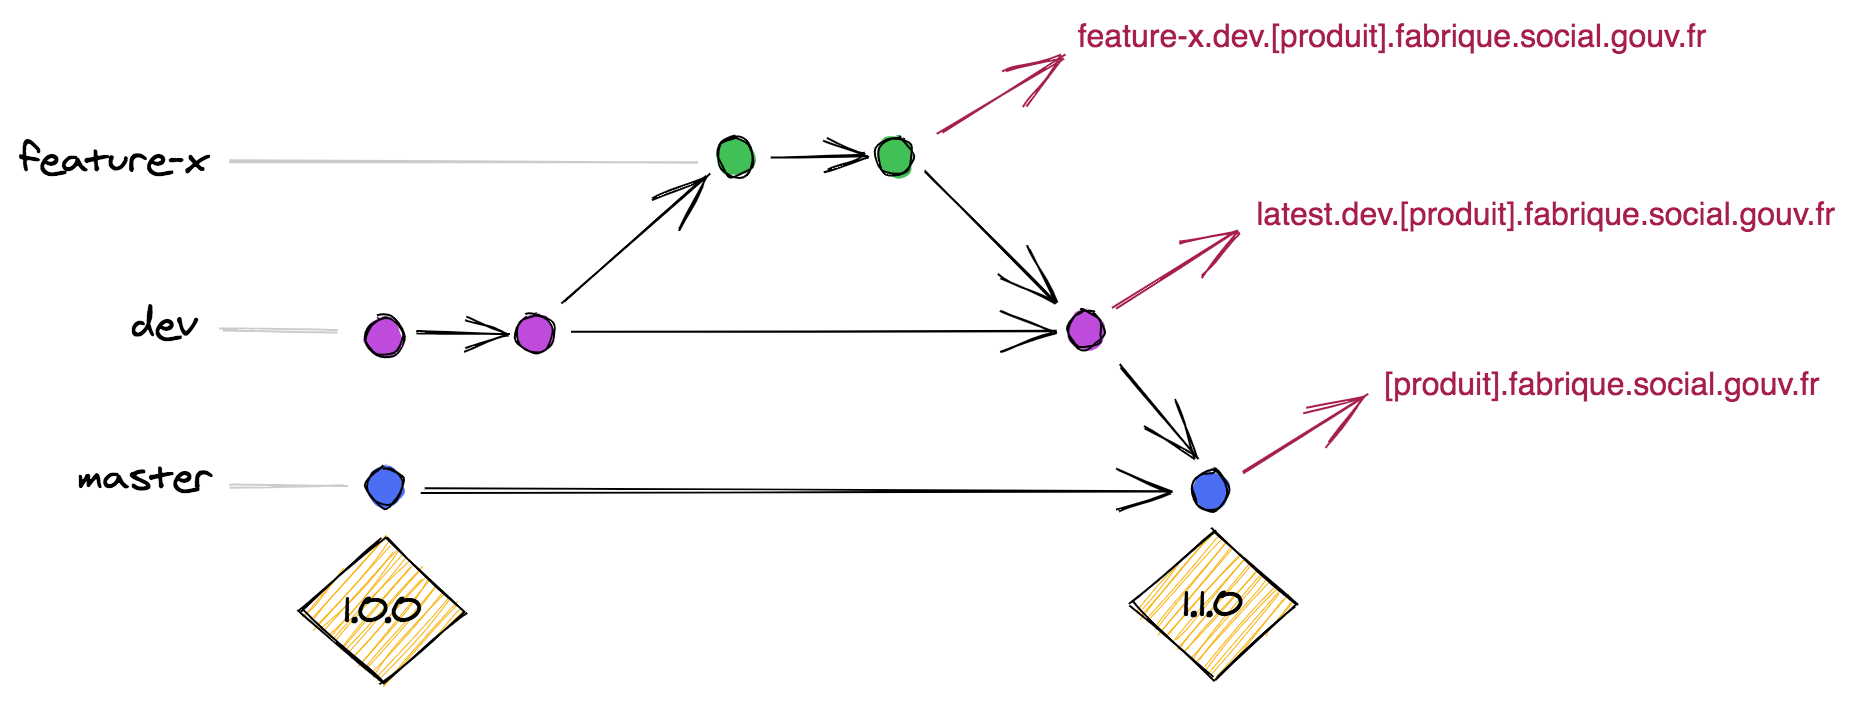
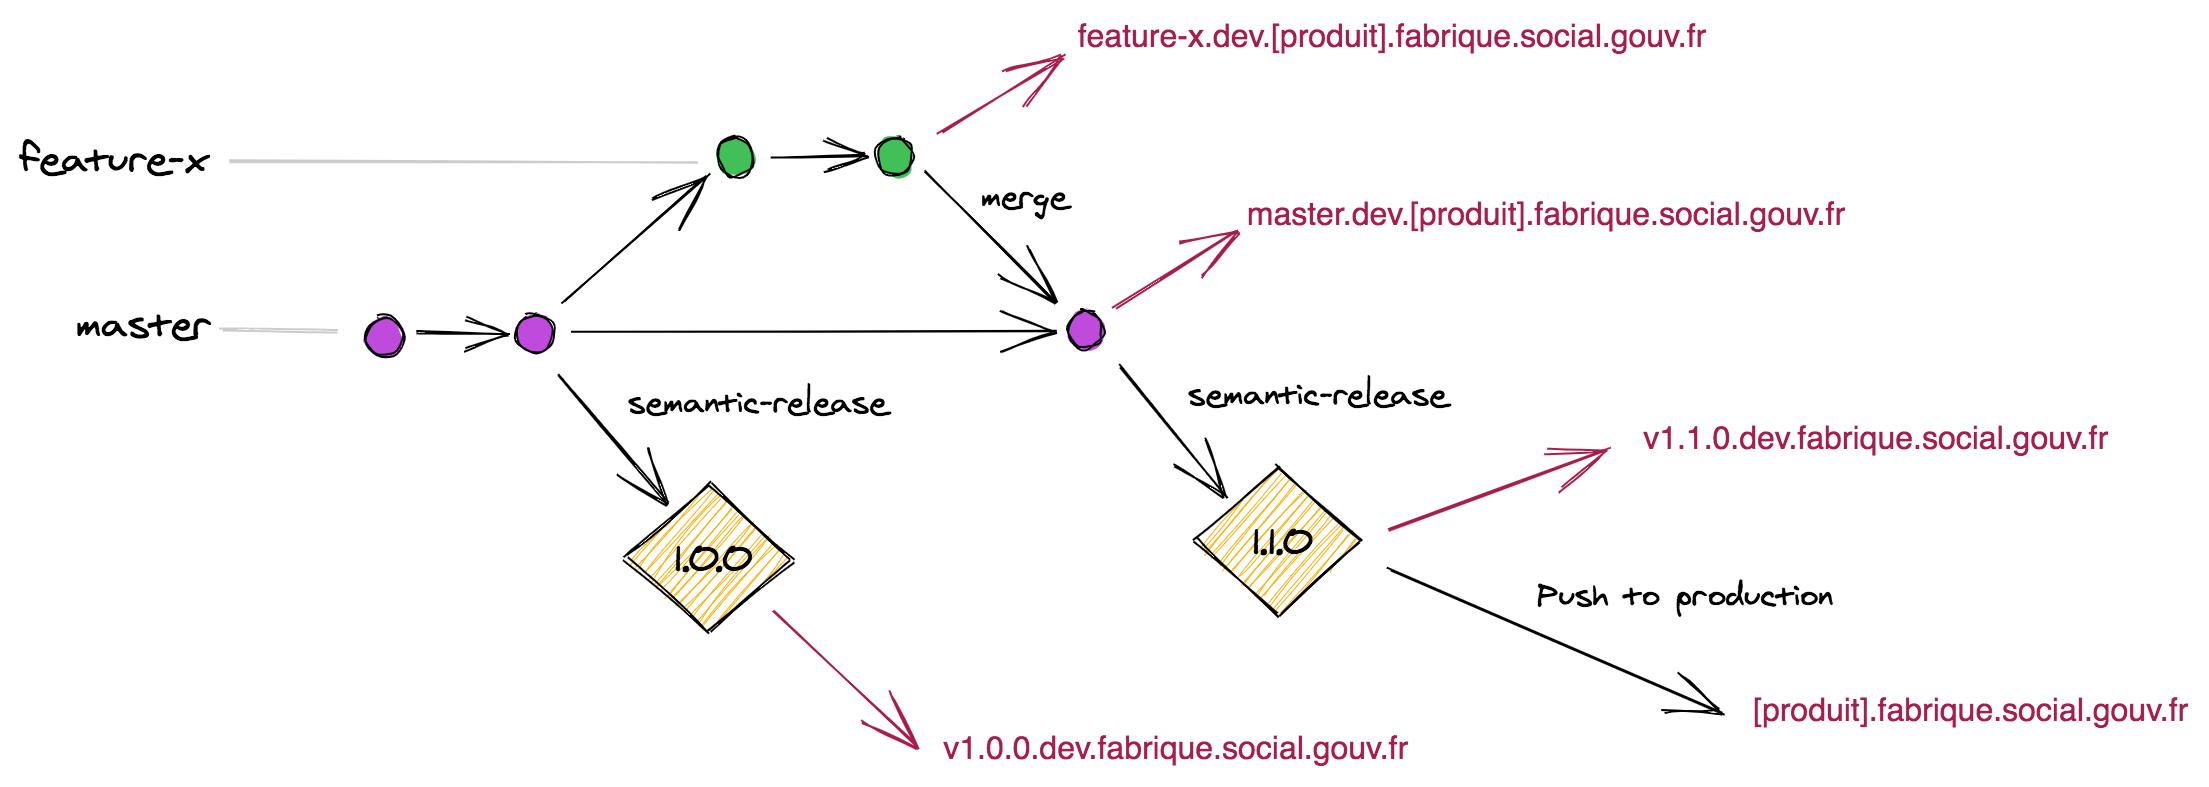
fix: update git flow

diff --git a/docs/developpement.md b/docs/developpement.md
@@ -1,12 +1,10 @@
 # Développement
 
-> Les solutions Google sont proscrites par le Ministère du fait de l'utilisation qui est faite des données collectées par Google.
-
-> L'utilisation de services SAAS tiers doit être soumise à l'équipe #Legal
+> Les solutions Google sont proscrites par le Ministère du fait de l'utilisation qui est faite des données collectées par Google. L'utilisation de services SAAS tiers doit être soumise à l'équipe #Legal de la fabrique.
 
 ## Conventions de la fabrique
 
-Nous utilisons GitHub pour tous nos projets publics et exceptionnellement notre GitLab interne pour les projets plus sensibles.
+GitHub est utilisé pour tous nos projets publics et exceptionnellement notre GitLab interne pour les projets plus sensibles.
 
 - Utiliser la [licence Apache-2.0](https://www.numerique.gouv.fr/publications/politique-logiciel-libre/pratique/#aide-au-choix-de-la-licence) pour les codes sources
 - Standardiser le code avec nos linters : https://github.com/SocialGouv/linters
@@ -20,26 +18,25 @@ Nous encourageons l'utilisation de [semantic-release](https://github.com/semanti
 
 > les `releases` sont déclenchées via un Job manuel du pipeline et executent `semantic-release`
 
-#### Phase de lancement
+[![](_media/git-flow-simple.png ":size=700x280")](https://excalidraw.com/#json=4862780838510592,zs4LSGlOakVxt7FOJyO0Nw)
 
-Lors du démarrage du projet, il est d'usage d'adopter un workflow simple qui permet d'itérer très rapidement sur les premiers prototypes.
-
-[![](_media/git-flow-simple.png ":size=700x280")](https://excalidraw.com/#json=5705723333836800,mheBbpRc0IBIgzXenOybhQ)
-
-- branche par défaut : `dev`
-- les `pull-requests` permettent de déployer des environnements de review. `[SHA].dev.[PRODUIT].fabrique.social.gouv.fr`
-- **[TODO]** la branche `dev` permet de recevoir toutes les PRs dans un environnement `latest` avec une URL stable : `latest.dev.[PRODUIT].fabrique.social.gouv.fr`
-- le merge de `dev` vers `master` permet d'envoyer directement en `production` : `[PRODUIT].fabrique.social.gouv.fr`
+- La branche par défaut est `master`
+- les `pull-requests` permettent de déployer des environnements de review.
+- Le clic sur le job `release` déclenche le déploiement d'un envrironnement de `pré-production`.
+- Le clic sur `deploy to prod` depuis un pipeline de release déclenche une mise en production.
 
 Ce flow est expliqué en détail dans https://nvie.com/posts/a-successful-git-branching-model
 
-#### Lancement MVP
+> 💡 Une fois le premier MVP réalisé, la branche `master` est protégée par des code reviews.
 
-Une fois le premier MVP réalisé :
+#### Urls des environnements
 
-- la branche `master` est protégée par des code reviews.
-- chaque `release` déploie dans un environnement de préprod : `[VERSION].preprod.[PRODUIT].fabrique.social.gouv.fr`
-- le déploiement en `production` se fait depuis un Job manuel du pipeline de la release vers `[PRODUIT].fabrique.social.gouv.fr`
+| Url                                             | Usage            |
+| ----------------------------------------------- | ---------------- |
+| feature-x.dev.[PRODUIT].fabrique.social.gouv.fr | feature branches |
+| master.dev.[PRODUIT].fabrique.social.gouv.fr    | latest           |
+| vX.Y.Z.dev.[PRODUIT].fabrique.social.gouv.fr    | releases         |
+| [PRODUIT].fabrique.social.gouv.fr               | production       |
 
 ## Accessibilité (A11Y)
 
